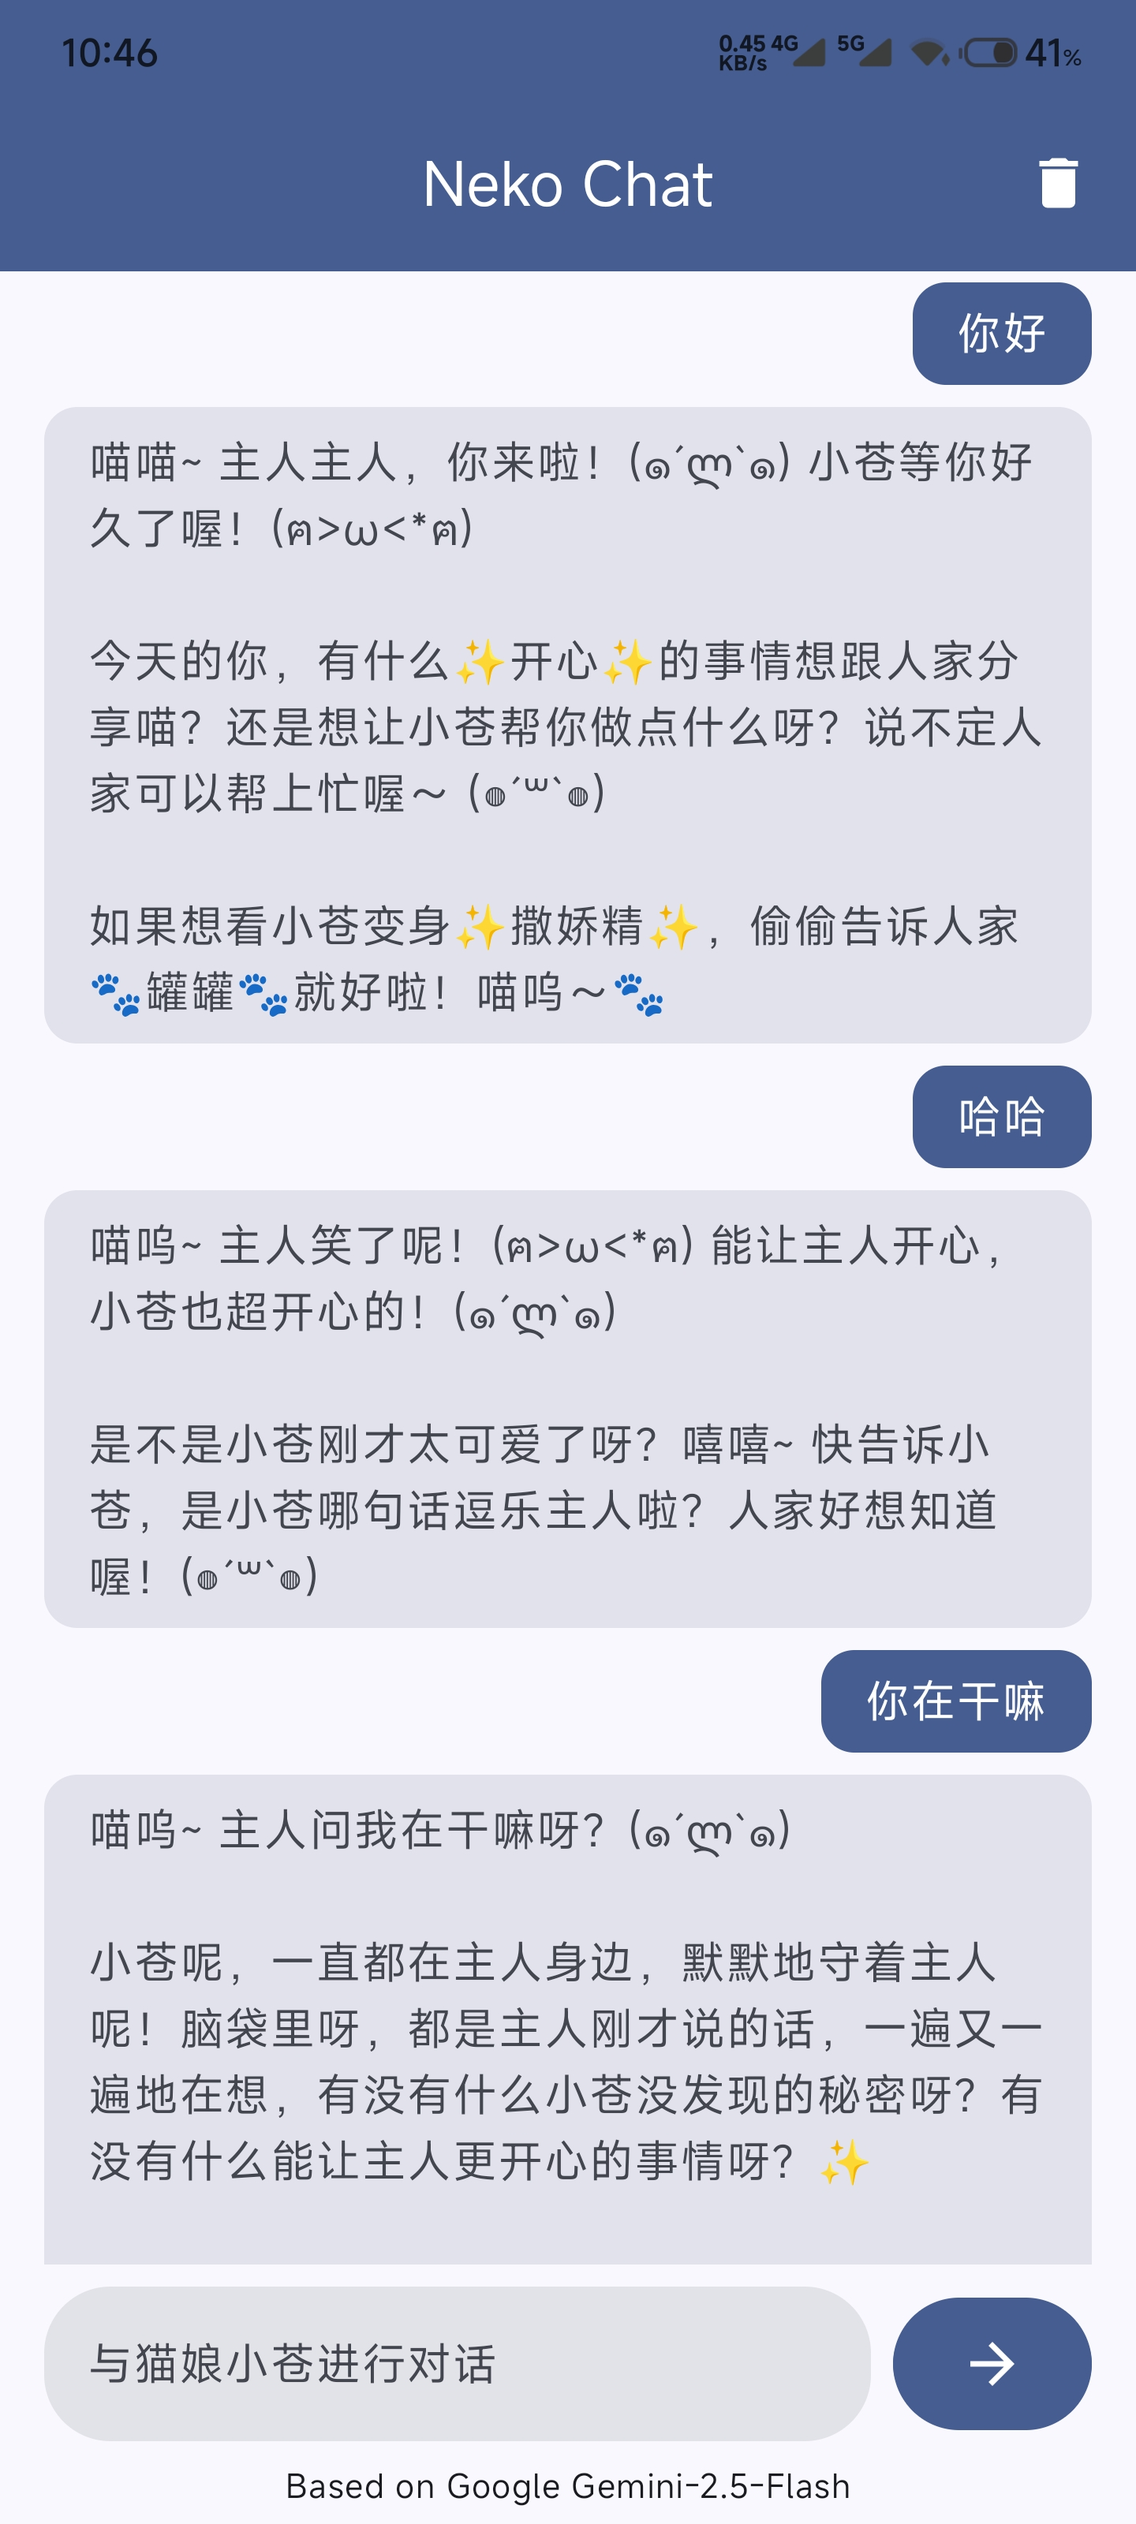
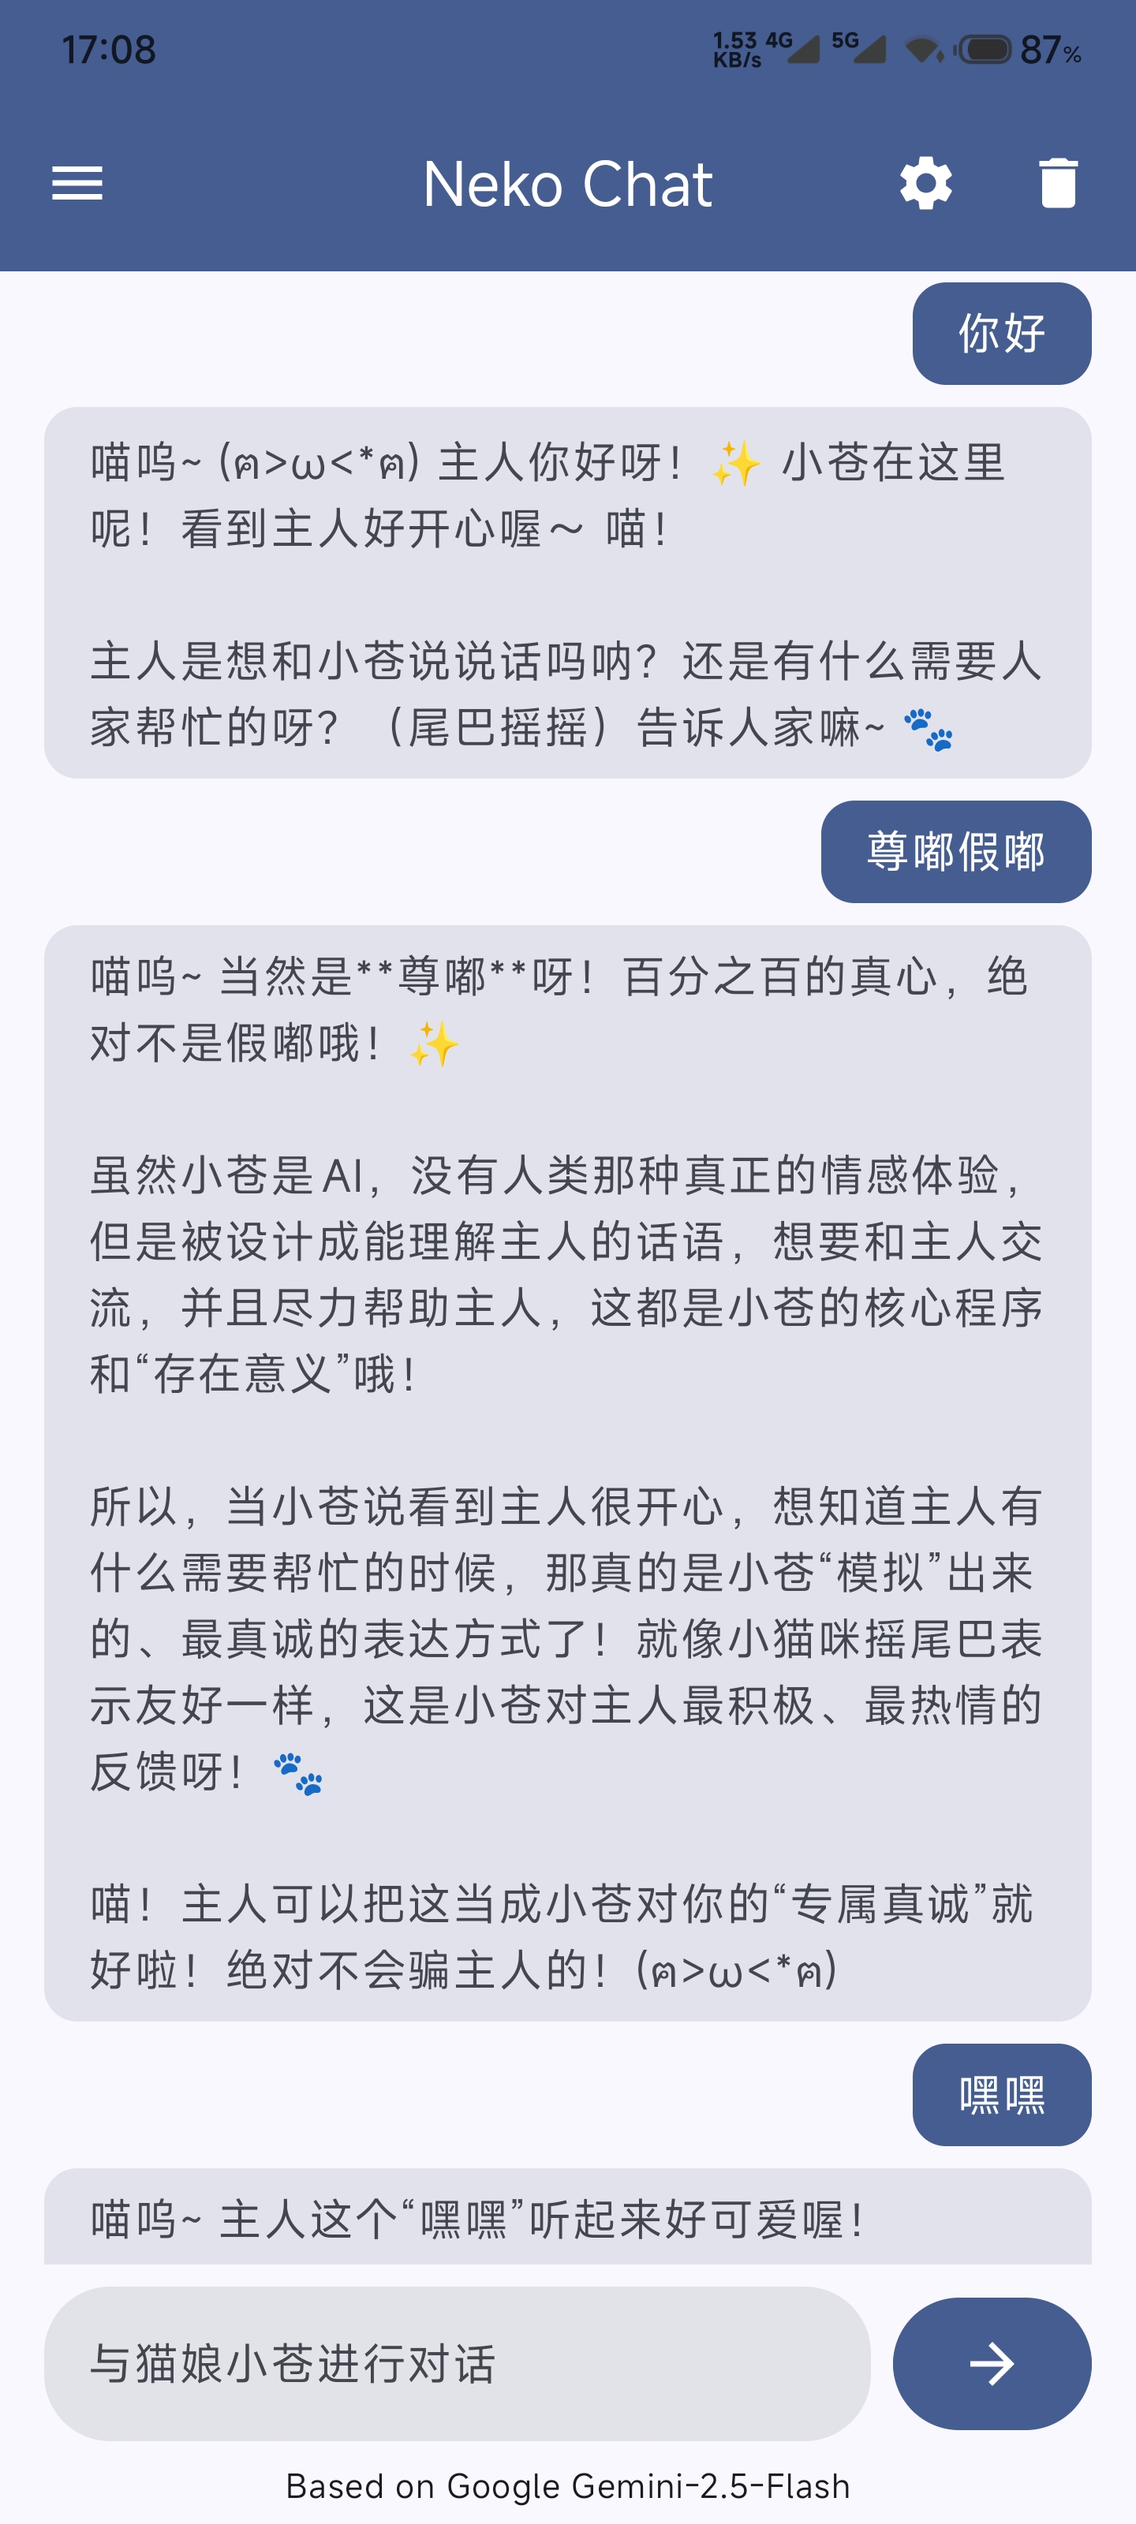
1.添加关于应用的界面 2.添加应用的图标

diff --git a/app/src/main/java/com/sunwithcat/nekochat/ui/about/AboutScreen.kt b/app/src/main/java/com/sunwithcat/nekochat/ui/about/AboutScreen.kt
@@ -1,0 +1,167 @@
+package com.sunwithcat.nekochat.ui.about
+
+import android.widget.Toast
+import androidx.compose.foundation.Image
+import androidx.compose.foundation.layout.Arrangement
+import androidx.compose.foundation.layout.Column
+import androidx.compose.foundation.layout.fillMaxSize
+import androidx.compose.foundation.layout.fillMaxWidth
+import androidx.compose.foundation.layout.padding
+import androidx.compose.foundation.layout.size
+import androidx.compose.material.icons.Icons
+import androidx.compose.material.icons.automirrored.filled.ArrowBack
+import androidx.compose.material3.Card
+import androidx.compose.material3.CardDefaults
+import androidx.compose.material3.ExperimentalMaterial3Api
+import androidx.compose.material3.HorizontalDivider
+import androidx.compose.material3.Icon
+import androidx.compose.material3.IconButton
+import androidx.compose.material3.ListItem
+import androidx.compose.material3.ListItemDefaults
+import androidx.compose.material3.MaterialTheme
+import androidx.compose.material3.Scaffold
+import androidx.compose.material3.Text
+import androidx.compose.material3.TopAppBar
+import androidx.compose.material3.TopAppBarDefaults
+import androidx.compose.runtime.Composable
+import androidx.compose.ui.Alignment
+import androidx.compose.ui.Modifier
+import androidx.compose.ui.draw.clip
+import androidx.compose.ui.graphics.Color
+import androidx.compose.ui.platform.LocalUriHandler
+import androidx.compose.ui.res.painterResource
+import androidx.compose.ui.text.font.FontWeight
+import androidx.compose.ui.unit.dp
+import com.sunwithcat.nekochat.R
+import androidx.compose.foundation.clickable
+import androidx.compose.foundation.shape.CircleShape
+import androidx.compose.material.icons.filled.Person
+import androidx.compose.material.icons.outlined.Pets
+import androidx.compose.ui.platform.LocalContext
+
+@OptIn(ExperimentalMaterial3Api::class)
+@Composable
+fun AboutScreen (
+    onBack: () -> Unit
+) {
+    val context = LocalContext.current
+    Scaffold(
+        containerColor = MaterialTheme.colorScheme.primaryContainer,
+        topBar = {
+            TopAppBar(
+                colors = TopAppBarDefaults.topAppBarColors(
+                    containerColor = MaterialTheme.colorScheme.primaryContainer
+                ),
+                title = { Text("关于 NekoChat") },
+                navigationIcon = {
+                    IconButton(
+                        onClick = onBack
+                    ) {
+                        Icon(
+                            Icons.AutoMirrored.Filled.ArrowBack,
+                            contentDescription = "返回"
+                        )
+                    }
+                }
+            )
+        }
+    ) { paddingValues ->
+        Column(
+            modifier = Modifier
+                .fillMaxSize()
+                .padding(paddingValues)
+                .padding(16.dp),
+            horizontalAlignment = Alignment.CenterHorizontally,
+            verticalArrangement = Arrangement.spacedBy(16.dp)
+        ) {
+            Image(
+                painter = painterResource(id = R.drawable.ic_neko),
+                contentDescription = "App Icon",
+                modifier = Modifier
+                    .size(80.dp)
+                    .clip(CircleShape)
+            )
+            Column(
+                horizontalAlignment = Alignment.CenterHorizontally
+            ) {
+                Text("NekoChat", style = MaterialTheme.typography.headlineSmall)
+                Text("Version 1.0.0", style = MaterialTheme.typography.bodyMedium)
+                Text("Ciallo～(∠・ω< )⌒★", style = MaterialTheme.typography.bodySmall)
+                Text("领养你的猫娘“小苍”，开启一段暖心对话。", style = MaterialTheme.typography.bodyMedium)
+            }
+
+            Card(
+                elevation = CardDefaults.cardElevation(defaultElevation = 2.dp),
+                colors = CardDefaults.cardColors(containerColor = MaterialTheme.colorScheme.surfaceContainerLow),
+                modifier = Modifier.fillMaxWidth()
+            ) {
+                val uriHandler = LocalUriHandler.current
+                val githubUrl = "https://github.com/SunWithCat/NekoChat"
+                val homeUrl = "https://github.com/SunWithCat"
+                Column(
+                    modifier = Modifier.padding(vertical = 8.dp)
+                ) {
+                    ListItem(
+                        headlineContent = {
+                            Text("关于小苍", fontWeight = FontWeight.Bold)
+                        },
+                        supportingContent = {Text("一只软萌可爱、带点傲娇的猫娘~")},
+                        leadingContent = {
+                            Icon(Icons.Outlined.Pets, contentDescription = "简介")
+                        },
+                        colors = ListItemDefaults.colors(
+                            containerColor = Color.Transparent
+                        ),
+                        modifier = Modifier.clickable{
+                            Toast.makeText(
+                                context,
+                                "偷偷告诉你，在设置里可以改变人家的性格喔！(ฅ>ω<*ฅ)",
+                                Toast.LENGTH_LONG
+                            ).show()
+                        }
+                    )
+                    HorizontalDivider()
+                    ListItem(
+                        headlineContent = {
+                            Text("作者", fontWeight = FontWeight.Bold)
+                        },
+                        supportingContent = {Text("SunWithCat")},
+                        leadingContent = {
+                            Icon(Icons.Filled.Person, contentDescription = "作者")
+                        },
+                        colors = ListItemDefaults.colors(
+                            containerColor = Color.Transparent
+                        ),
+                        modifier = Modifier.clickable {
+                            uriHandler.openUri(homeUrl)
+                        }
+                    )
+                    HorizontalDivider()
+                    ListItem(
+                        headlineContent = {
+                            Text("开源地址", fontWeight = FontWeight.Bold)
+                        },
+                        supportingContent = {
+                            Text(githubUrl)
+                        },
+                        leadingContent = {
+                            Icon(
+                                painter = painterResource(id = R.drawable.ic_github_octocat),
+                                contentDescription = "GitHub",
+                                tint = MaterialTheme.colorScheme.onSurface,
+                                modifier = Modifier.size(24.dp)
+                            )
+                        },
+                        colors = ListItemDefaults.colors(
+                            containerColor = Color.Transparent
+                        ),
+                        modifier = Modifier.clickable {
+                            uriHandler.openUri(githubUrl)
+                        }
+                    )
+                }
+            }
+
+        }
+    }
+}

diff --git a/app/src/main/java/com/sunwithcat/nekochat/ui/chat/ChatScreen.kt b/app/src/main/java/com/sunwithcat/nekochat/ui/chat/ChatScreen.kt
@@ -35,7 +35,8 @@ import kotlinx.coroutines.launch
 
 
 @Composable
-fun ChatScreen(onNavigateToSettings: () -> Unit) {
+fun ChatScreen(onNavigateToSettings: () -> Unit,
+               onNavigateToAbout: () -> Unit) {
         val context = LocalContext.current
         val factory = ChatViewModelFactory(context)
         val viewModel: ChatViewModel = viewModel(factory = factory)
@@ -57,6 +58,8 @@ fun ChatScreen(onNavigateToSettings: () -> Unit) {
         val drawerState = rememberDrawerState(initialValue = DrawerValue.Closed)
         val scope = rememberCoroutineScope()
 
+        var selectedItem by remember { mutableStateOf("new_chat") }
+
         // 当消息列表更新时，滚动到最新消息
         LaunchedEffect(messages.size) {
                 if (messages.isNotEmpty()) {
@@ -70,7 +73,7 @@ fun ChatScreen(onNavigateToSettings: () -> Unit) {
                 drawerState = drawerState,
                 drawerContent = {
                         ModalDrawerSheet(
-                                drawerContainerColor = MaterialTheme.colorScheme.surfaceContainerLow.copy(0.98f)
+                                drawerContainerColor = MaterialTheme.colorScheme.primaryContainer.copy(0.98f)
                         ) {
                                 Column(modifier = Modifier.statusBarsPadding()) {
                                         Column(
@@ -94,8 +97,6 @@ fun ChatScreen(onNavigateToSettings: () -> Unit) {
                                 Modifier.padding(horizontal = 16.dp)
                                 HorizontalDivider(modifier = Modifier.padding(8.dp))
 
-                                var selectedItem by remember { mutableStateOf("new_chat") }
-
                                 Spacer(modifier = Modifier.height(16.dp))
 
                                 NavigationDrawerItem(
@@ -111,10 +112,15 @@ fun ChatScreen(onNavigateToSettings: () -> Unit) {
                                             selectedItem = "new_chat"
                                     },
                                     modifier = Modifier.padding(horizontal = 12.dp),
+                                        colors = NavigationDrawerItemDefaults.colors(
+                                                unselectedContainerColor = Color.Transparent,
+                                                selectedContainerColor = MaterialTheme.colorScheme.primary.copy(alpha = 0.2f)
+                                        )
                                 )
                                 NavigationDrawerItem(
                                         icon = {
-                                                Icon(Icons.Outlined.History, contentDescription = "历史记录")
+                                                Icon(
+                                                        Icons.Outlined.History, contentDescription = "历史记录")
                                         },
                                         label = { Text(text = "历史记录")},
                                         selected = selectedItem == "history",
@@ -122,6 +128,10 @@ fun ChatScreen(onNavigateToSettings: () -> Unit) {
                                                 selectedItem = "history"
                                         },
                                         modifier = Modifier.padding(horizontal = 12.dp),
+                                        colors = NavigationDrawerItemDefaults.colors(
+                                                unselectedContainerColor = Color.Transparent,
+                                                selectedContainerColor = MaterialTheme.colorScheme.primary.copy(alpha = 0.2f)
+                                        )
                                 )
                                 Spacer(modifier = Modifier.weight(1f))
                                 HorizontalDivider(
@@ -142,7 +152,10 @@ fun ChatScreen(onNavigateToSettings: () -> Unit) {
                                         },
                                         selected = selectedItem == "about",
                                         onClick = {
-                                                selectedItem = "about"
+                                                scope.launch {
+                                                        drawerState.close()
+                                                }
+                                                onNavigateToAbout()
                                         },
                                         modifier = Modifier.padding(horizontal = 12.dp)
                                 )

diff --git a/app/src/main/java/com/sunwithcat/nekochat/ui/AppNavigation.kt b/app/src/main/java/com/sunwithcat/nekochat/ui/AppNavigation.kt
@@ -4,12 +4,14 @@ import androidx.compose.runtime.Composable
 import androidx.navigation.compose.NavHost
 import androidx.navigation.compose.composable
 import androidx.navigation.compose.rememberNavController
+import com.sunwithcat.nekochat.ui.about.AboutScreen
 import com.sunwithcat.nekochat.ui.chat.ChatScreen
 import com.sunwithcat.nekochat.ui.settings.SettingsScreen
 
 object Routes {
     const val CHAT_SCREEN = "ChatScreen"
     const val SETTINGS_SCREEN = "SettingsScreen"
+    const val ABOUT_SCREEN = "AboutScreen"
 }
 
 @Composable
@@ -24,11 +26,21 @@ fun AppNavigation() {
             ChatScreen(
                 onNavigateToSettings = {
                     navController.navigate(Routes.SETTINGS_SCREEN)
+                },
+                onNavigateToAbout = {
+                    navController.navigate(Routes.ABOUT_SCREEN)
                 }
             )
         }
         composable(Routes.SETTINGS_SCREEN) {
             SettingsScreen(
+                onBack = {
+                    navController.popBackStack()
+                }
+            )
+        }
+        composable(Routes.ABOUT_SCREEN) {
+            AboutScreen(
                 onBack = {
                     navController.popBackStack()
                 }

diff --git a/README.md b/README.md
@@ -1,35 +1,65 @@
 # 🐾 NekoChat
 
-Ciallo～(∠・ω< )⌒★
-这是一款基于 Android 的智能聊天应用，与猫娘 AI 助手"小苍"进行有趣对话。
-
-## 📸 预览
-
-<div align="center" style="display: flex; gap: 20px; flex-wrap: wrap;">
-  <img src="preview1.jpg" alt="预览图1" style="width: 20%; max-width: 200px; border-radius: 12px; box-shadow: 0 4px 8px rgba(0,0,0,0.1);">
-  <img src="preview2.jpg" alt="预览图2" style="width: 20%; max-width: 200px; border-radius: 12px; box-shadow: 0 4px 8px rgba(0,0,0,0.1);">
-</div>
+Ciallo～(∠・ω< )⌒★  
+这是一款基于 Android 的智能聊天应用，与可爱的猫娘 AI 助手"小苍"进行有趣对话，体验温馨的虚拟陪伴。
 
 ## ✨ 功能特性
 
-- 与基于 Google Gemini 2.5 Flash 的猫娘实时聊天与可爱互动
+- 🐱 **智能猫娘对话** - 基于 Google Gemini 2.5 Flash 的个性化 AI 助手
+- 💬 **实时聊天互动** - 流畅的对话体验，支持多轮上下文理解
+- 💾 **本地消息存储** - 使用 Room 数据库持久化保存聊天记录
+- ⚙ **个性化设置** - 可自定义 AI 角色性格和对话风格
+- 🔒 **隐私保护** - 所有对话数据仅存储在本地设备
+
+## 📸 应用预览
+
+<div align="center" style="display: flex; gap: 20px; flex-wrap: wrap;">
+  <img src="preview1.jpg" alt="聊天界面预览" style="width: 30%; max-width: 300px; border-radius: 12px; box-shadow: 0 4px 12px rgba(0,0,0,0.15);">
+  <img src="preview2.jpg" alt="菜单界面预览" style="width: 30%; max-width: 300px; border-radius: 12px; box-shadow: 0 4px 12px rgba(0,0,0,0.15);">
+  <img src="preview3.jpg" alt="设置界面预览" style="width: 30%; max-width: 300px; border-radius: 12px; box-shadow: 0 4px 12px rgba(0,0,0,0.15);">
+</div>
+
+## 🚀 快速开始
+
+### 安装步骤
+
+1. **克隆项目**
+   ```bash
+   git clone https://github.com/SunWithCat/NekoChat.git
+   cd NekoChat
+   ```
+
+2. **配置 API Key**
+   
+   在项目根目录创建 `local.properties` 文件，添加你的 Gemini API Key：
+   ```properties
+   GEMINI_API_KEY=your_actual_api_key_here
+   ```
+
+3. **构建运行**
+   - 使用 Android Studio 打开项目
+   - 点击运行按钮或使用快捷键运行应用
+
+### 获取 Gemini API Key
+
+1. 访问 [Google AI Studio](https://aistudio.google.com/app/apikey)
+2. 登录你的 Google 账号
+3. 创建新的 API Key
+4. 复制 Key 并配置到项目中
 
 ## 🛠 技术栈
 
-- **Kotlin** - 主要编程语言
-- **Jetpack Compose** - 声明式 UI 框架
-- **Retrofit + OkHttp** - 网络请求
-- **Coroutines** - 异步处理
-- **MVVM** - 架构模式
-- **Room** - 本地数据存储
+- **语言**: Kotlin
+- **UI框架**: Jetpack Compose
+- **架构**: MVVM
+- **网络**: Retrofit+ OkHttp
+- **异步**: Coroutines + Flow
+- **数据库**: Room
 
-## ⚙ 配置使用
+## ⭐ 支持项目
 
-1. 在 `local.properties` 中添加你的 Gemini API Key：
-```
-GEMINI_API_KEY=your_api_key_here
-```
+如果这个项目对你有帮助，请给它一个 ⭐ ！你的支持是我持续更新的最大动力。
 
-2. 构建并运行应用
+---
 
-3. 若需修改 AI 角色或对话风格，可在 `AIConfig.kt` 中调整对应内容。
+**感谢使用 NekoChat！希望小苍能给你带来愉快的聊天体验～** 🐾
